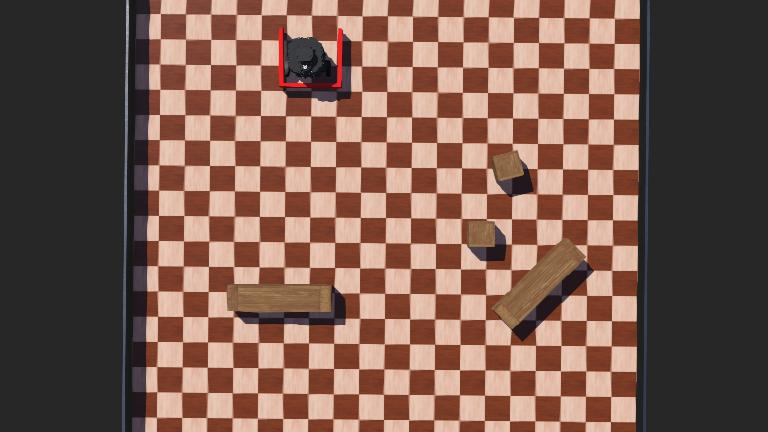
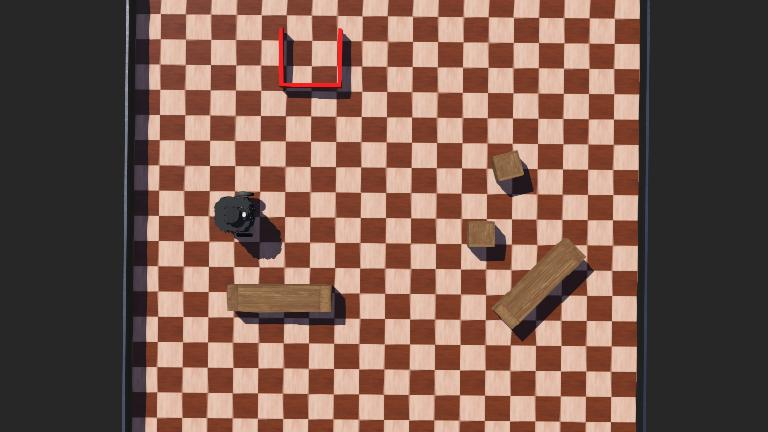
Uploading new files

Changed region(s): [[0.2812, 0.4213, 0.375, 0.6019], [0.375, 0.0602, 0.4375, 0.2407]]

diff --git a/Week 8/Source/controllers/Go_to_goal/Go_to_goal.py b/Week 8/Source/controllers/Go_to_goal/Go_to_goal.py
@@ -33,8 +33,8 @@ time_drive_1 = 7 * dur_onesq
 time_drive_2 = 9.8 * dur_onesq
 time_drive_3 = 17 * dur_onesq
 time_drive_4 = 19.8 * dur_onesq
-time_drive_5 = 23 * dur_onesq
-time_drive_6 = 25.8 * dur_onesq
+time_drive_5 = 23.2 * dur_onesq
+time_drive_6 = 25.95 * dur_onesq
 time_drive_7 = 28 * dur_onesq
 
 start_time = robot.getTime()
